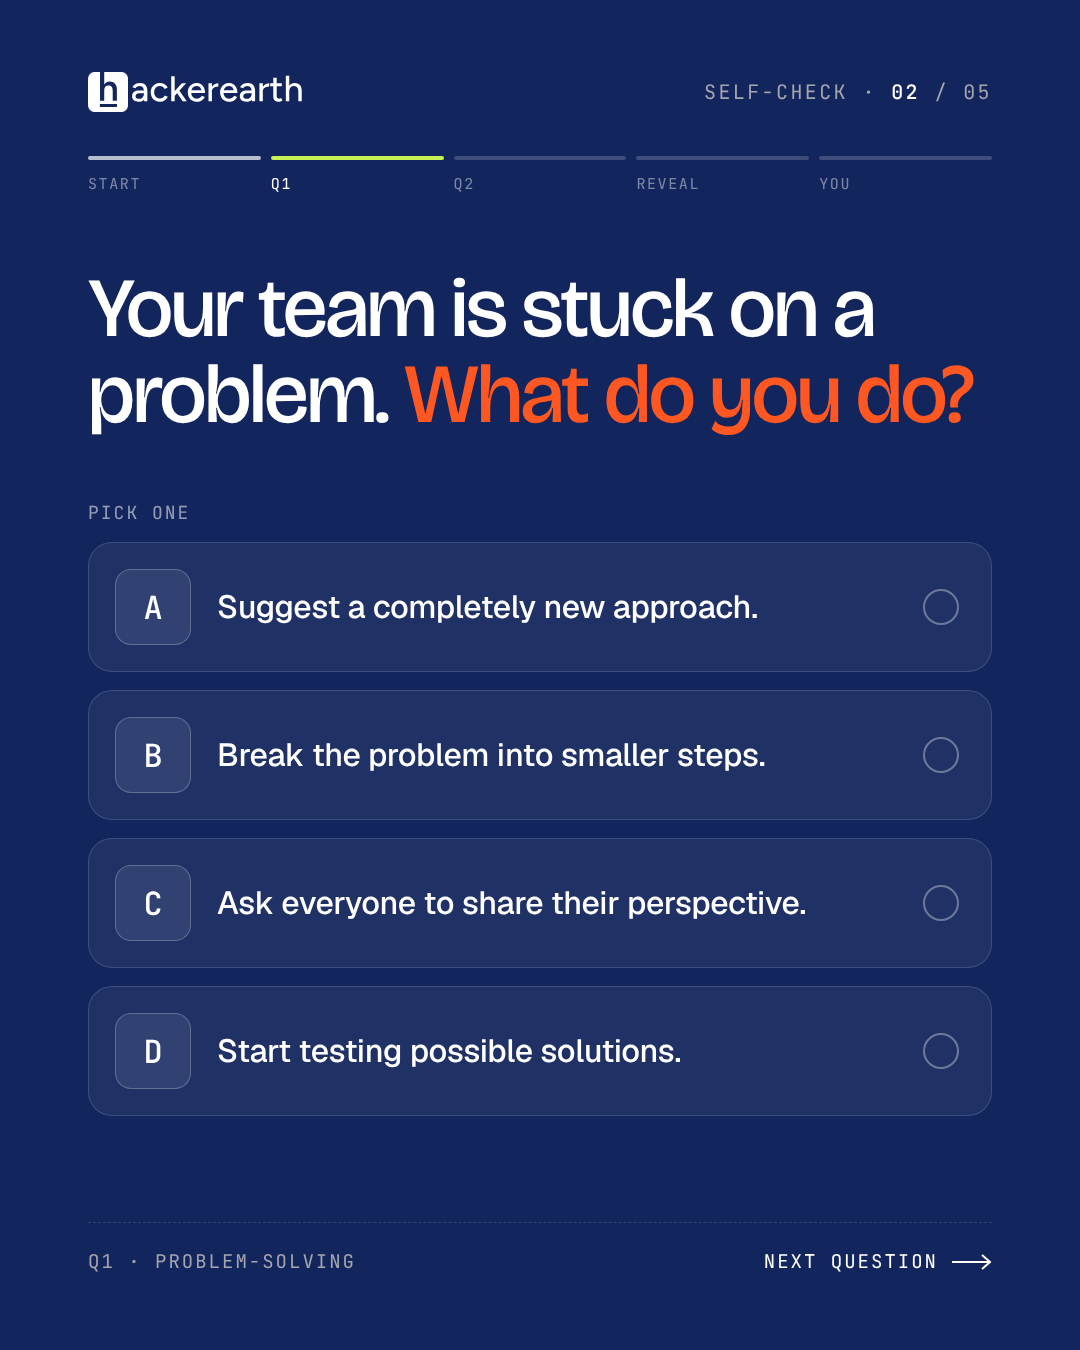
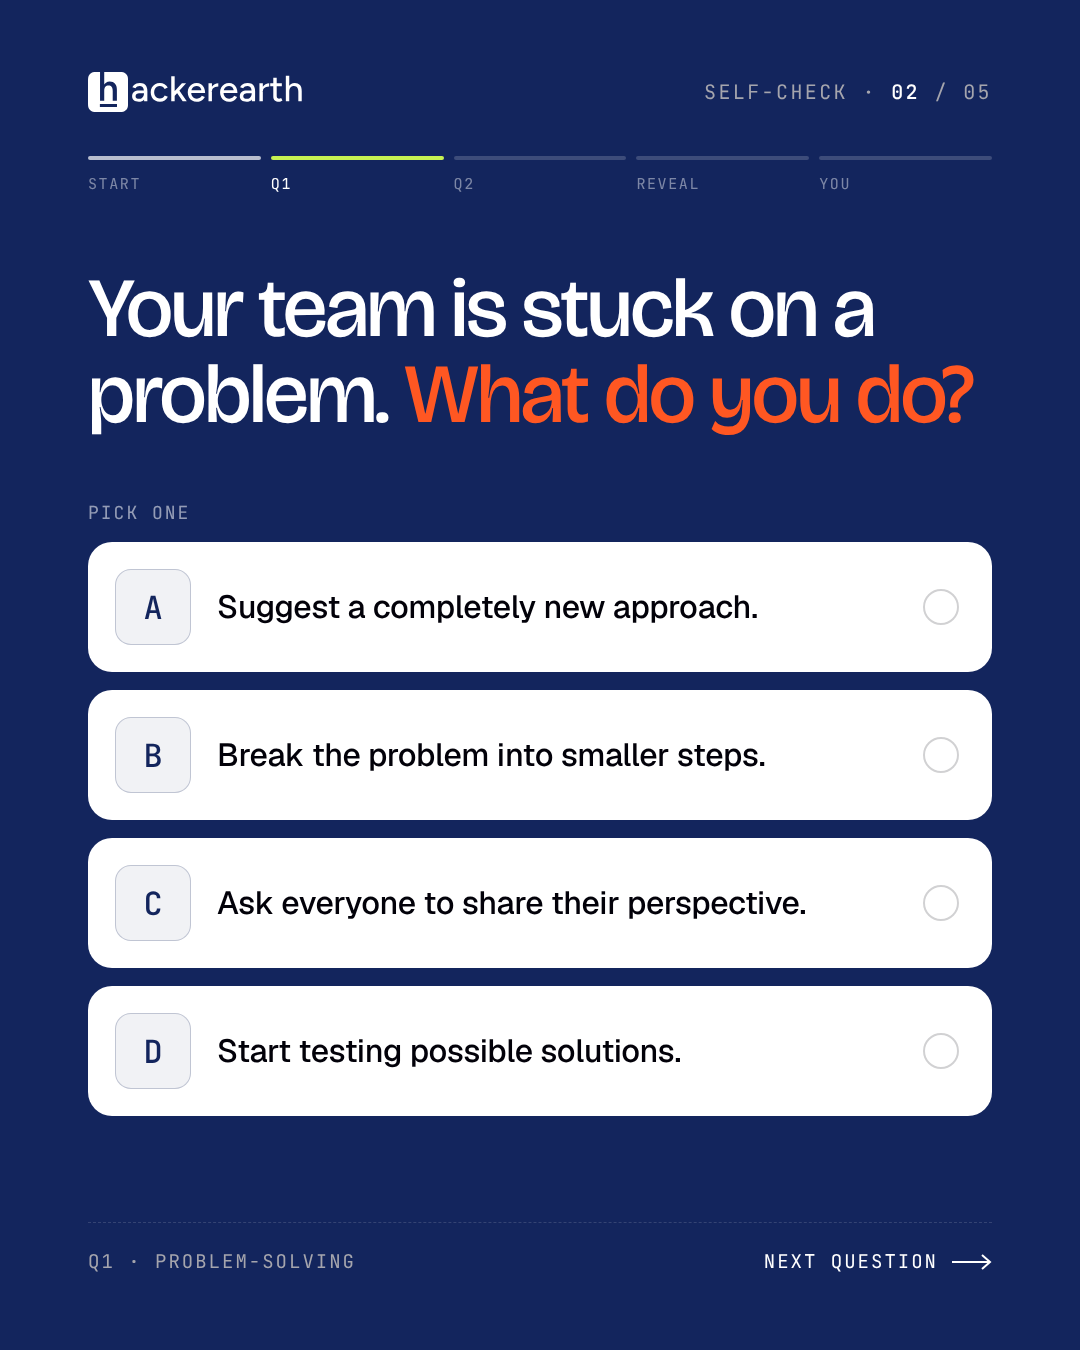
Carousel: white answer boxes on question slides
Claude-Session: https://claude.ai/code/session_011WvSfd7jShGBWHTo2t24v1

diff --git a/instagram-carousels/set-2-60-second-self-check/carousel.html b/instagram-carousels/set-2-60-second-self-check/carousel.html
@@ -168,10 +168,8 @@
   .dark .progress-track span { background: rgba(255,255,255,0.18); }
   .dark .progress-labels { color: rgba(255,255,255,0.45); }
   .dark .answers-head { color: rgba(255,255,255,0.55); }
-  .dark .option { background: rgba(255,255,255,0.06); border-color: rgba(255,255,255,0.14); }
-  .dark .option .key, .dark .result .letter, .dark .chip { color: #fff; background: rgba(255,255,255,0.08); border-color: rgba(255,255,255,0.24); }
-  .dark .option .txt { color: #fff; }
-  .dark .option .radio { border-color: rgba(255,255,255,0.35); }
+  .dark .result .letter, .dark .chip { color: #fff; background: rgba(255,255,255,0.08); border-color: rgba(255,255,255,0.24); }
+  .dark .option { border-color: transparent; }  /* answer boxes stay white on navy */
   .dark .result { background: rgba(255,255,255,0.06); border-color: rgba(255,255,255,0.14); }
   .dark .result .mostly { color: rgba(255,255,255,0.6); }
   .dark .result .style { color: #fff; }
